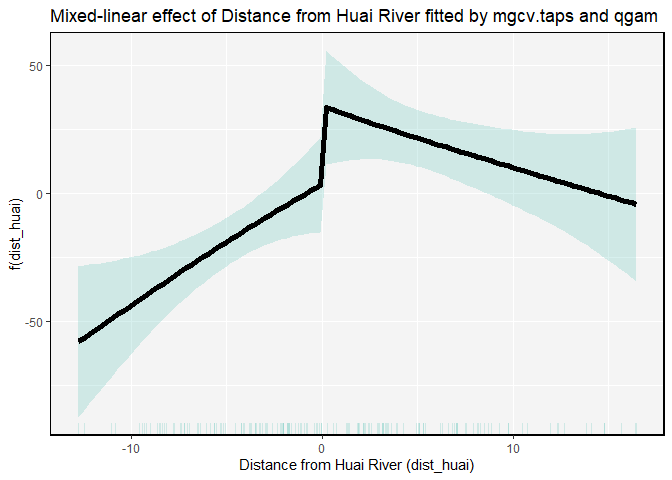
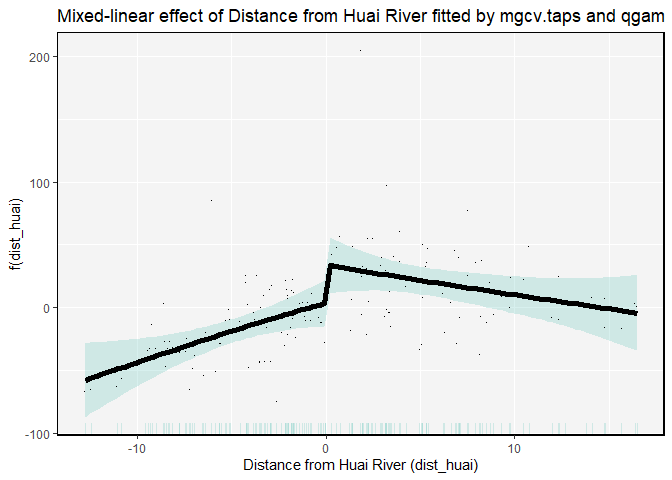
Update data and example

diff --git a/README.md b/README.md
@@ -139,7 +139,7 @@ head(Huai_River)
 
 ``` r
 ggplot(Huai_River, aes(x = dist_huai, y = pm10)) +
-  geom_point(color = "black", size = 3) +
+  geom_point(color = "black", size = 3, fill="#60c5ba",shape=21) +
   labs(
     title = "PM10 Concentration vs. Distance from Huai River",
     x = "Distance from Huai River",
@@ -164,6 +164,7 @@ plot(sm(b0, 1)) +
 l_ciPoly(mul = 5, fill = "#60c5ba", alpha = 0.25) +
 l_rug(mapping = aes(x = x), alpha = 0.25, color = "#60c5ba") +
 l_fitLine(colour = "black", size = 2) +
+l_points()+
 theme_get() +
 xlab("Distance from Huai River (dist_huai)") + ylab("f(dist_huai)") +
 ggtitle("Non-linear effect of Distance from Huai River fitted by mgcv") +
@@ -184,6 +185,7 @@ plot(sm(b1, 1)) +
 l_ciPoly(mul = 5, fill = "#60c5ba", alpha = 0.25) +
 l_rug(mapping = aes(x = x), alpha = 0.25, color = "#60c5ba") +
 l_fitLine(colour = "black", size = 2) +
+l_points()+
 theme_get() +
 xlab("Distance from Huai River (dist_huai)") + ylab("f(dist_huai)") +
 ggtitle("Mixed-linear effect of Distance from Huai River fitted by mgcv.taps") +
@@ -289,6 +291,7 @@ plot(sm(b3, 1)) +
 l_ciPoly(mul = 5, fill = "#60c5ba", alpha = 0.25) +
 l_rug(mapping = aes(x = x), alpha = 0.25, color = "#60c5ba") +
 l_fitLine(colour = "black", size = 2) +
+l_points()+
 theme_get() +
 xlab("Distance from Huai River (dist_huai)") + ylab("f(dist_huai)") +
 ggtitle("Mixed-linear effect of Distance from Huai River fitted by mgcv.taps and qgam") +
